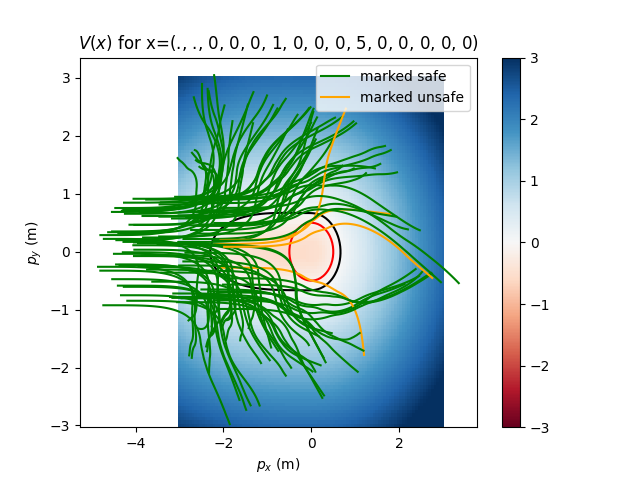
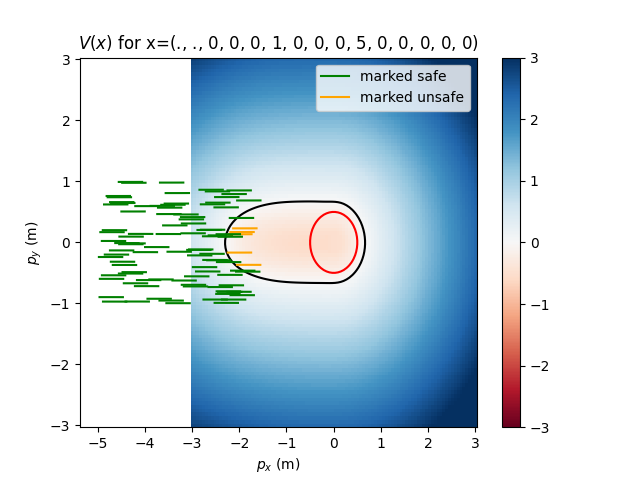
upload ckpt

diff --git a/hw2/problem3.py b/hw2/problem3.py
@@ -17,11 +17,14 @@ from hj_reachability import sets
 from tqdm import tqdm
 
 u_bar = 3.0  # control bound
+m = 2.0
+l = 1.0
+g = 10.0
 class InvertedPendulum(dynamics.ControlAndDisturbanceAffineDynamics):
   def __init__(self,
-               m=2.,
-               l=1.,
-               g=10.,
+               m=m,
+               l=l,
+               g=g,
                u_bar=u_bar):
     self.m = m
     self.l = l
@@ -278,7 +281,7 @@ def simulate(x0):
         x = xs[i-1]
         u = optimal_safety_controller(x)
         us[i] = u
-        xs[i] = x + dt*np.array([x[1], 12*u-9.8])
+        xs[i] = x + dt * (np.array([x[1], (g / l) * jnp.sin(x[0])]) + np.array([0., 1/(m * l ** 2)]) * u)
     return xs, us
 
 def plot_trajectory(x_vals, tspan, cmap):
@@ -341,7 +344,7 @@ if __name__ == "__main__":
     # # # # 3.4
     x0_1 = np.array([-0.1, 0.4])
     x0_2 = np.array([-0.1, -0.3])
-    x0s = np.array([x0_1, x0_2]) # will plot all onto one figure
+    x0s = np.array([x0_1,x0_2]) # will plot all onto one figure
     plot_optimal_safety(x0s, values[-1], grid)
     
     
